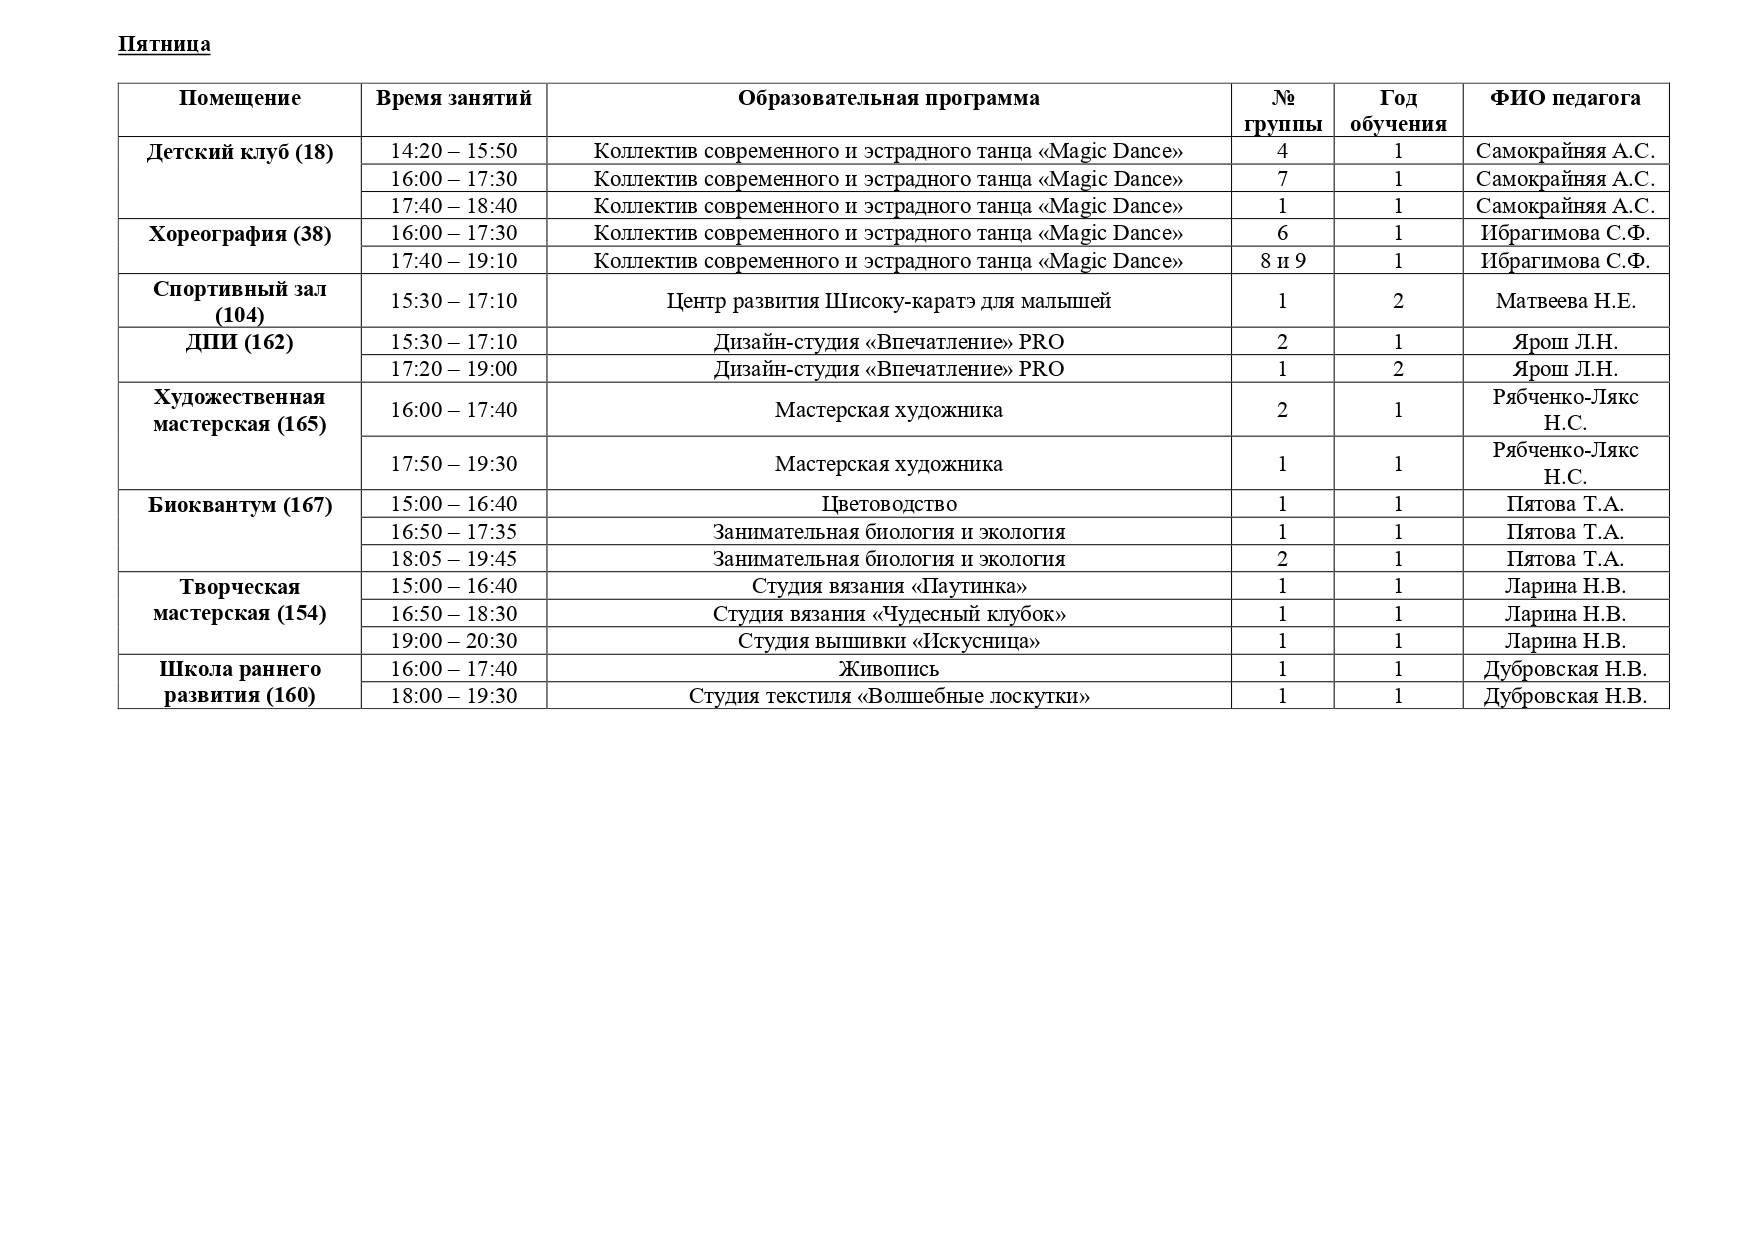
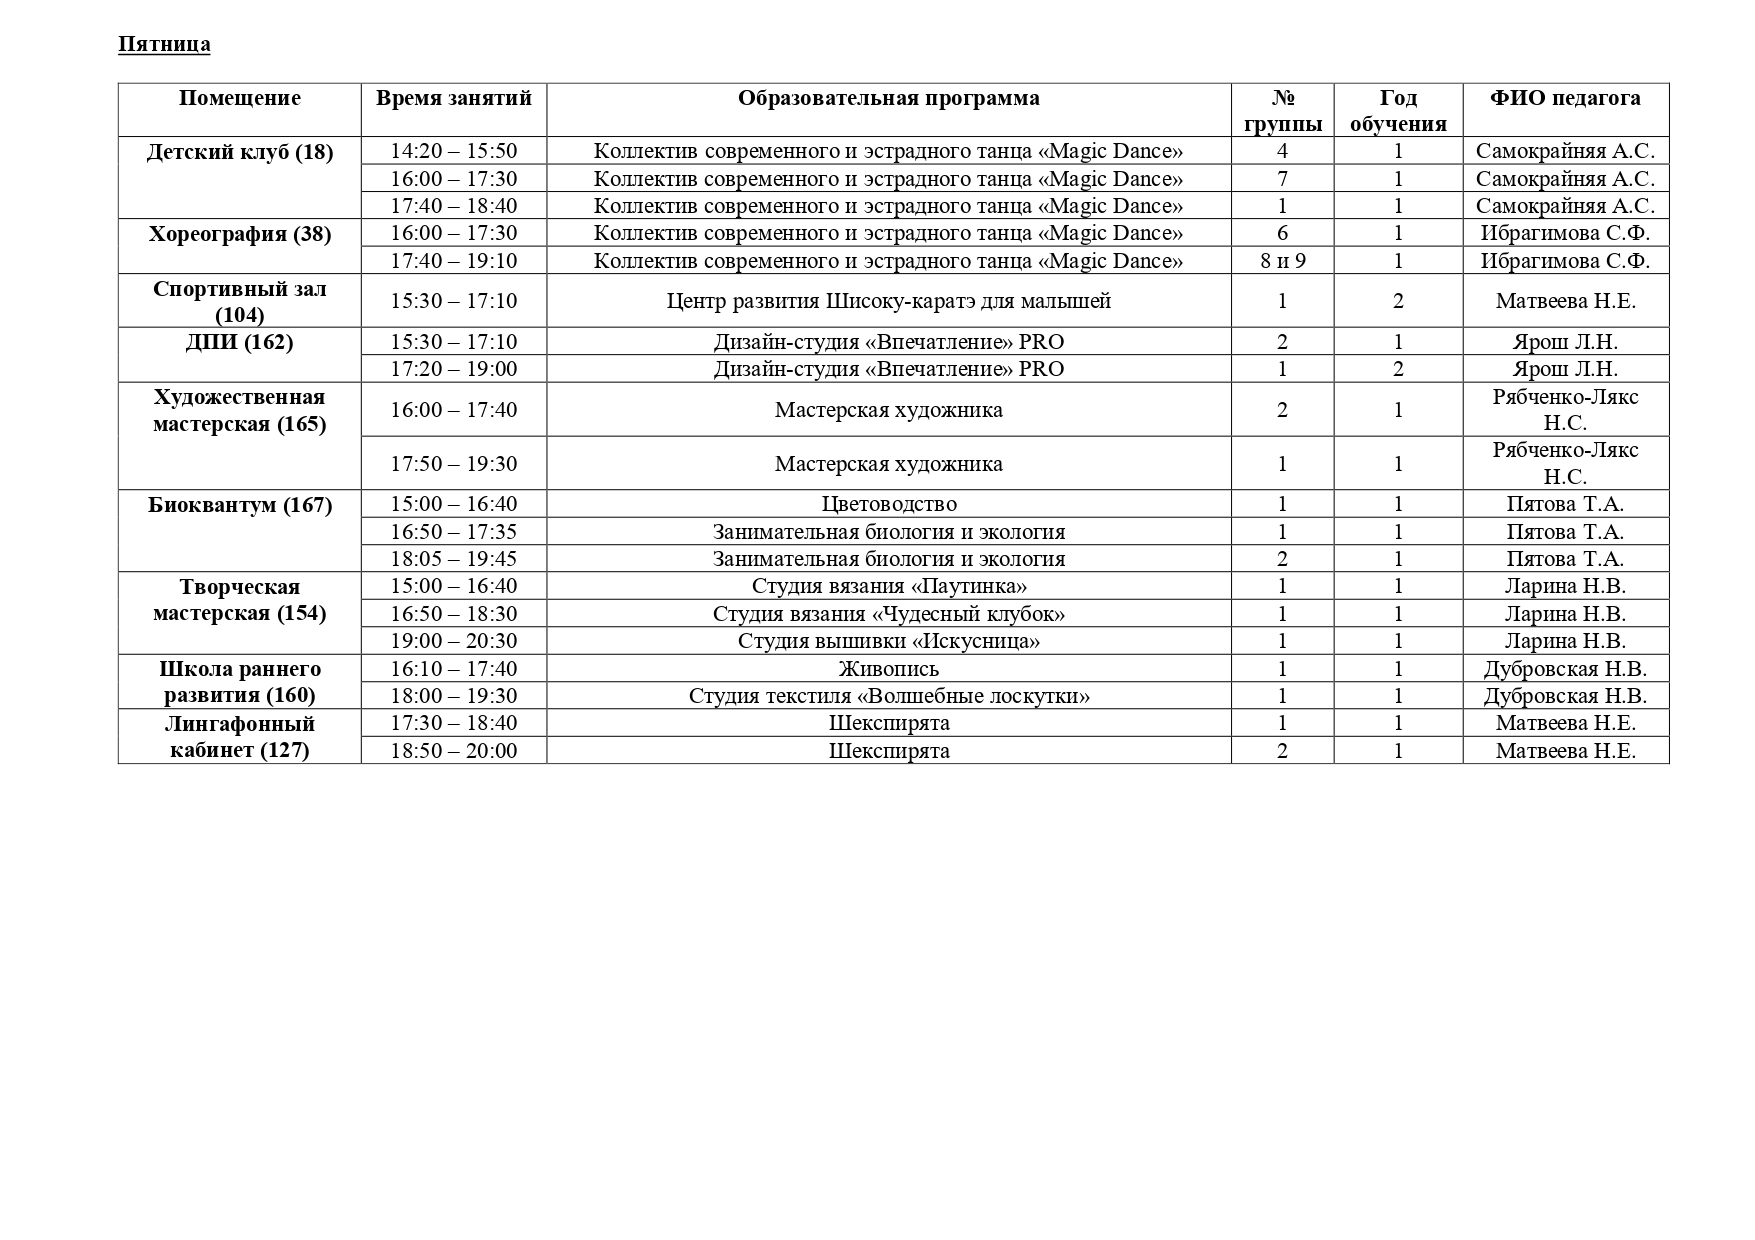
schedule updated

diff --git a/src/components/Courses/coursesCardsData.js b/src/components/Courses/coursesCardsData.js
@@ -443,7 +443,7 @@ const coursesCardsData = [
               wednesday: "14:20 – 15:50",
               thursday: "",
               friday: "14:10 – 15:40",
-              saturday: "12:20 – 13:40",
+              saturday: "12:20 – 13:50",
             },
           },
           {
@@ -452,7 +452,7 @@ const coursesCardsData = [
             extraGroupName: "Старт",
             year: "1-й год обучения",
             age: "10-12 лет",
-            signInButtonAllowed: true,
+            signInButtonAllowed: false,
             schedule: {
               monday: "",
               tuesday: "16:00 – 17:30",
@@ -531,14 +531,14 @@ const coursesCardsData = [
       },
     ],
     achievements: [
-      "/img/Courses/Achievements/15-1.jpeg",
-      "/img/Courses/Achievements/15-2.jpeg",
-      "/img/Courses/Achievements/15-3.jpeg",
-      "/img/Courses/Achievements/15-4.jpeg",
-      "/img/Courses/Achievements/15-5.jpeg",
-      "/img/Courses/Achievements/15-6.jpeg",
-      "/img/Courses/Achievements/15-7.jpg",
-      "/img/Courses/Achievements/15-8.jpeg",
+      "./img/Courses/Achievements/15-1.jpeg",
+      "./img/Courses/Achievements/15-2.jpeg",
+      "./img/Courses/Achievements/15-3.jpeg",
+      "./img/Courses/Achievements/15-4.jpeg",
+      "./img/Courses/Achievements/15-5.jpeg",
+      "./img/Courses/Achievements/15-6.jpeg",
+      "./img/Courses/Achievements/15-7.jpg",
+      "./img/Courses/Achievements/15-8.jpeg",
     ],
   },
   {
@@ -833,9 +833,9 @@ const coursesCardsData = [
             schedule: {
               monday: "",
               tuesday: "",
-              wednesday: "16:00 – 17:40",
+              wednesday: "16:10 – 17:40",
               thursday: "",
-              friday: "16:00 – 17:40",
+              friday: "16:10 – 17:40",
               saturday: "",
             },
           },
@@ -1024,10 +1024,10 @@ const coursesCardsData = [
       },
     ],
     achievements: [
-      "/img/Courses/Achievements/2-1.jpg",
-      "/img/Courses/Achievements/2-2.jpg",
-      "/img/Courses/Achievements/2-3.jpg",
-      "/img/Courses/Achievements/2-4.jpg",
+      "./img/Courses/Achievements/2-1.jpg",
+      "./img/Courses/Achievements/2-2.jpg",
+      "./img/Courses/Achievements/2-3.jpg",
+      "./img/Courses/Achievements/2-4.jpg",
     ],
   },
   {
@@ -1166,7 +1166,7 @@ const coursesCardsData = [
       src: "img/Courses/Summer/14.jpg",
     },
     title: "Театральная студия «Сказка»",
-    extraText: [9, 10],
+    extraText: [10, 11, 12],
     category: "Художественная",
     programms: [
       {
@@ -1191,15 +1191,15 @@ const coursesCardsData = [
             id: 0,
             groupName: "Группа № 1",
             year: "1-й год обучения",
-            age: "9-10 лет",
+            age: "10-12 лет",
             signInButtonAllowed: false,
             schedule: {
               monday: "",
-              tuesday: "17:00 – 18:30",
+              tuesday: "17:00 – 19:30",
               wednesday: "",
-              thursday: "17:00 – 18:30",
+              thursday: "17:00 – 19:30",
               friday: "",
-              saturday: "17:00 – 18:30",
+              saturday: "",
             },
           },
         ],
@@ -1392,7 +1392,7 @@ const coursesCardsData = [
         signInButton: "https://dopobr.petersburgedu.ru/programs/18929/groups/",
       },
     ],
-    achievements: ["/img/Courses/Achievements/8-1.jpg"],
+    achievements: ["./img/Courses/Achievements/8-1.jpg"],
   },
   // {
   //   image: {
@@ -1497,7 +1497,7 @@ const coursesCardsData = [
       src: "img/Courses/30.jpg",
     },
     title: "Шекспирята",
-    extraText: [5, 6],
+    extraText: [5, 6, 7],
     category: "Социально-гуманитарная",
     programms: [
       {
@@ -1520,11 +1520,26 @@ const coursesCardsData = [
             age: "5-6 лет",
             signInButtonAllowed: false,
             schedule: {
-              monday: "17:30 – 19:00",
+              monday: "",
               tuesday: "",
-              wednesday: "17:30 – 19:00",
+              wednesday: "17:30 – 18:40",
               thursday: "",
-              friday: "",
+              friday: "17:30 – 18:40",
+              saturday: "",
+            },
+          },
+          {
+            id: 1,
+            groupName: "Группа № 2",
+            year: "1-й год обучения",
+            age: "5-7 лет",
+            signInButtonAllowed: false,
+            schedule: {
+              monday: "",
+              tuesday: "",
+              wednesday: "18:50 – 20:00",
+              thursday: "",
+              friday: "18:50 – 20:00",
               saturday: "",
             },
           },
@@ -1623,7 +1638,7 @@ const coursesCardsData = [
             signInButtonAllowed: false,
             schedule: {
               monday: "",
-              tuesday: "16:40 – 16:30",
+              tuesday: "16:40 – 18:20",
               wednesday: "",
               thursday: "",
               friday: "",
@@ -1642,7 +1657,7 @@ const coursesCardsData = [
               wednesday: "",
               thursday: "",
               friday: "",
-              saturday: "16:20 – 18:00",
+              saturday: "16:20 – 18:40",
             },
           },
         ],
@@ -1695,7 +1710,7 @@ const coursesCardsData = [
         signInButton: "https://dopobr.petersburgedu.ru/programs/5342/groups/",
       },
     ],
-    achievements: ["/img/Courses/Achievements/6-1.jpg"],
+    achievements: ["./img/Courses/Achievements/6-1.jpg"],
   },
   {
     image: {
@@ -1813,11 +1828,11 @@ const coursesCardsData = [
             age: "7-8 лет",
             signInButtonAllowed: false,
             schedule: {
-              monday: "15:30 – 17:10",
-              tuesday: "",
-              wednesday: "15:30 – 17:10",
-              thursday: "",
-              friday: "15:30 – 17:10",
+              monday: "",
+              tuesday: "19:20 – 20:05",
+              wednesday: "",
+              thursday: "19:20 – 20:05",
+              friday: "",
               saturday: "",
             },
           },
@@ -1829,9 +1844,9 @@ const coursesCardsData = [
             signInButtonAllowed: false,
             schedule: {
               monday: "",
-              tuesday: "17:15 – 18:25",
+              tuesday: "17:00 – 18:00",
               wednesday: "",
-              thursday: "17:15 – 18:25",
+              thursday: "17:00 – 18:00",
               friday: "",
               saturday: "",
             },
@@ -1844,9 +1859,9 @@ const coursesCardsData = [
             signInButtonAllowed: false,
             schedule: {
               monday: "",
-              tuesday: "18:35 – 19:45",
+              tuesday: "18:10 – 19:10",
               wednesday: "",
-              thursday: "18:35 – 19:45",
+              thursday: "18:10 – 19:10",
               friday: "",
               saturday: "",
             },
@@ -1856,8 +1871,8 @@ const coursesCardsData = [
       },
     ],
     achievements: [
-      "/img/Courses/Achievements/7-1.jpg",
-      "/img/Courses/Achievements/7-2.jpg",
+      "./img/Courses/Achievements/7-1.jpg",
+      "./img/Courses/Achievements/7-2.jpg",
     ],
   },
   {

diff --git a/dist/index.html b/dist/index.html
@@ -4,7 +4,7 @@
     <meta charset="UTF-8" />
     <meta name="viewport" content="width=device-width, initial-scale=1.0" />
     <title>ZDDT Courses</title>
-    <script type="module" crossorigin src="/zddt-summer-courses/assets/index-Dsz9BNuZ.js"></script>
+    <script type="module" crossorigin src="/zddt-summer-courses/assets/index-CCIAQRKL.js"></script>
     <link rel="stylesheet" crossorigin href="/zddt-summer-courses/assets/index-C6Li_cTF.css">
   </head>
   <body>
